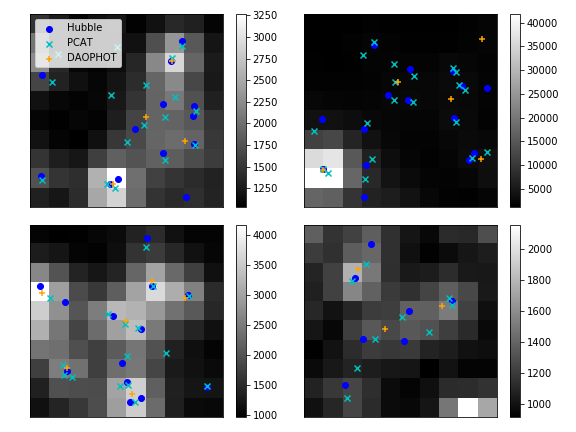
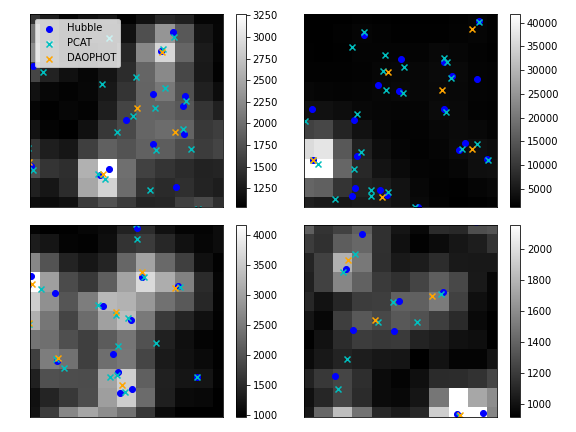
update figures

diff --git a/6-results-m2.tex b/6-results-m2.tex
@@ -57,37 +57,36 @@ For PCAT, 300 catalogs were sampled using MCMC; the metrics were computed for ea
 
 \begin{figure}[tb]
     \centering
-    \includegraphics[width=0.49\textwidth]{figures/m2_results/example_subimages_ws.png}
+    \includegraphics[width=0.49\textwidth]{figures/m2_results/example_subimages_starnet.png}
     \rulesep
     \includegraphics[width=0.49\textwidth]{figures/m2_results/example_subimages_pcat.png}
     % \vspace{-1cm}
     \caption{Estimated catalogs on four 10$\times$10 subimages from
     M2. Blue dots are stars from the HST catalog used as ground truth.
-    Starnet-WS, PCAT, and DAOPHOT estimated stars are shown as
+    Starnet, PCAT, and DAOPHOT estimated stars are shown as
     red, cyan, and orange crosses, respectively. }
     \label{fig:example_subimages}
 \end{figure}
 
-Fitting StarNet using wake-sleep (StarNet-WS) resulted in a catalog that outperforms DAOPHOT and PCAT in F1 score (Table~\ref{tab:summary_stats}).
-Figure~\ref{fig:example_subimages} shows the StarNet-WS catalog alongside PCAT, DAOPHOT, and HST catalogs.
-Fitting StarNet without the wake phase
-and using only the default SDSS background and PSF (StarNet-S) produced a catalog with a TPR similar to that of StarNet-WS but with a smaller PPV.
-PCAT estimated the most stars of all methods; it therefore had a large TPR but a small PPV.
-On the other hand, DAOPHOT estimated less than half the number of stars when compared to the other methods. It therefore had a large PPV but a small TPR.
-The StarNet-WS catalog had about the same PPV as DAOPHOT while having nearly the same TPR as PCAT.
+StarNet produced a catalog that outperforms DAOPHOT and PCAT in F1 score (Table~\ref{tab:summary_stats}).
+Figure~\ref{fig:example_subimages} shows the StarNet catalog alongside PCAT, DAOPHOT, and HST catalogs.
+DAOPHOT estimated less than half the number of stars when compared to the other methods.
+It therefore had a large PPV but a small TPR.
+The StarNet catalog had about the same TPR as PCAT while being ten points higher in PPV.
 
 Table~\ref{tab:summary_stats} also prints the number of stars inferred by each method.
-For probabilistic methods (StarNet and PCAT), we display the mean number of stars under the approximate posterior, along with the 5-th and 95-th quantiles.
+For probabilistic methods (StarNet and PCAT),
+ we display the mean number of stars under the approximate posterior, along with the 5-th and 95-th quantiles.
 There are 1114 stars in the HST catalog.
-Neither PCAT nor StarNet captured the true number of stars in their 90\% credible interval, though StarNet-WS came the closest.
-The StarNet credible intervals were three times wider than the PCAT intervals.
+Neither PCAT nor StarNet captured the true number of stars in their 90\% credible interval,
+but the StarNet credible intervals were three times wider than the PCAT intervals.
 The small PCAT credible intervals may be indicative of an MCMC sampler that failed to mix well.
 
+\input{tables/summary_stats_m2.tex}
 
-\input{tables/summary_stats_m2.txt}
-
-The improvement of StarNet-WS over PCAT in PPV was most pronounced for dim stars (Figure~\ref{fig:summary_stats}). The TPR for StarNet-WS was uniformly better than DAOPHOT across almost all magnitudes.
-Of all methods, StarNet-WS best approximated the HST flux distribution (Figure~\ref{fig:luminosity_fun_m2}).
+The improvement of StarNet over PCAT in PPV was most pronounced for dim stars (Figure~\ref{fig:summary_stats}).
+The TPR for StarNet was uniformly better than DAOPHOT across almost all magnitudes.
+Of all methods, StarNet best approximated the HST flux distribution (Figure~\ref{fig:luminosity_fun_m2}).
 % PCAT overestimated the number of dim stars with magnitudes greater than 21.
 % In contrast, DAOPHOT failed to find stars with magnitudes greater than $21$.
 
@@ -138,9 +137,9 @@ Of all methods, StarNet-WS best approximated the HST flux distribution (Figure~\
 % StarNet-WS returns a well-defined distribution over the set of all catalogs
 % and is thus able to capture uncertainties in catalog construction.
 % Samples from the StarNet-WS variational distribution are compared with samples from PCAT in Figure~\ref{fig:example_subimages_sampled}.
-To examine the uncertainty calibration of StarNet-WS, we evaluated the approximate posterior
+To examine the uncertainty calibration of StarNet, we evaluated the approximate posterior
 conditional on the true number of stars in the HST catalog.
-Then, each star in the StarNet-WS catalog was matched with exactly one Hubble star by finding the permutation of Hubble stars that had the largest log-likelihood under our variational distribution $q_\eta$.
+Then, each star in the StarNet catalog was matched with exactly one Hubble star by finding the permutation of Hubble stars that had the largest log-likelihood under our variational distribution $q_\eta$.
 For each star, we computed the z-score $(y - \hat \mu) / \hat \sigma$, where $y$ is the HST log-flux or
 logit-location; $\hat \mu$ and $\hat\sigma$ are the mean and the standard deviation, respectively, of the Gaussian variational distribution for the log-flux or logit-location.
 % If the uncertainties were perfectly calibrated, the distribution of these z-scores would be a standard Gaussian.

diff --git a/main.tex b/main.tex
@@ -107,6 +107,8 @@
 
 \section{Results on astronomical surveys}
 \input{6-results-m2}
+\input{6a-results-decaps}
+
 
 \section{Conclusion}
 \label{sec:discussion}
